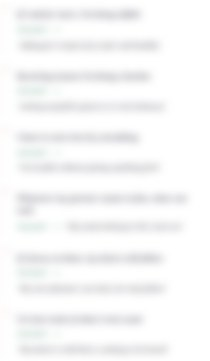
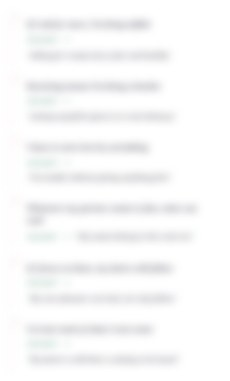
fix(report): the teased chapters fade out instead of ending on a hard edge
The column crops behind Typical Beliefs and Accelerators & Brakes were blurred
in the browser and then screenshotted with `locator.screenshot()`, which clips
to the element's box — but a CSS blur bleeds OUTSIDE that box. Every crop
therefore ended on four razor-straight edges: soft in the middle, hard border,
which is what read as "sharp" against the live rows above it.

The capture now wraps the element in a padded white box (COLUMN_CAPTURE_PAD_PX,
2.5x the blur radius) so the falloff lands inside the file, and the page pulls
that padding back out with `width: calc(100% + var(--lp-pad) * 2)` plus matching
negative margins, keeping the chapter's content at 1:1 with the live rows while
only the soft edge overhangs into the card's padding.

Three things the pad exposed, fixed here:

- the overhang reaches into the column gutter, where the NEXT column's left rule
  was captured as a crisp vertical line inside the raster — the one shape a blur
  cannot destroy. Everything that is not an ancestor of the captured element is
  now hidden (visibility, so layout holds) for the shot.
- Tailwind's preflight caps images at `max-width: 100%`, which clamped the
  widened box back to the column and shrank the blurred chapter by the pad.
- the wrapper needs `display: flow-root`, or the image's negative margins
  collapse out of it and its box no longer matches the content region — measured
  at 1:1 on both viewports now (img = box + 2x pad, offset by exactly the pad).
[…]

diff --git a/app/globals.css b/app/globals.css
@@ -26717,18 +26717,21 @@ input.autofill-dark:-internal-autofill-previewed {
   opacity: 0.84;
 }
 
-.report-beliefs__preview-fade--tease .report-locked-preview {
-  display: block;
-  width: 100%;
-}
-
 .report-beliefs__preview-fade--tease .report-locked-preview__img {
   display: block;
-  width: 100%;
+  /* The capture carries `--lp-pad` of padding on every side so the blur's falloff
+     is inside the image instead of clipped at its edge (COLUMN_CAPTURE_PAD_PX in
+     scripts/generate-locked-previews.mjs). Widening by twice that and pulling the
+     margins back keeps the CONTENT at 1:1 with the live rows above, with the soft
+     edge overhanging into the card's padding. */
+  width: calc(100% + var(--lp-pad) * 2);
+  /* Tailwind's preflight caps every img at max-width:100%, which would clamp the
+     widened box straight back to the column and shrink the content by the pad. */
+  max-width: none;
   height: auto;
-  /* Sub-pixel smoothing, not a second lock blur. The file is 89px wide and displays
-     at 355, so the browser's upscale leaves faint JPEG block boundaries; half a
-     pixel of blur dissolves them without touching how soft the chapter reads. */
+  margin: calc(var(--lp-pad) * -1) calc(var(--lp-pad) * -1) calc(var(--lp-pad) * -1);
+  /* Sub-pixel smoothing, not a second lock blur: dissolves the JPEG block
+     boundaries the upscale leaves behind. */
   filter: blur(0.5px);
 }
 
@@ -26787,6 +26790,13 @@ input.autofill-dark:-internal-autofill-previewed {
 
 .report-beliefs__preview-fade--tease .report-locked-preview {
   position: relative;
+  width: 100%;
+  /* flow-root, not overflow:hidden — the wrapper must NOT clip the feather, but it
+     must stop the image's negative margins collapsing out of it, so its own box
+     stays exactly the content region the pad surrounds. */
+  display: flow-root;
+  /* Must match COLUMN_CAPTURE_PAD_PX in scripts/generate-locked-previews.mjs. */
+  --lp-pad: 20px;
 }
 
 /* The box's height comes from the paywall card, and the wrapper holding the columns
@@ -26839,18 +26849,33 @@ input.autofill-dark:-internal-autofill-previewed {
   opacity: 0.9;
 }
 
-.report-accel__columns--tease .report-locked-preview {
+.report-accel__columns--tease .report-locked-preview,
+.report-accel__tail-preview .report-locked-preview {
   position: relative;
-  display: block;
+  /* See the beliefs rule: contains the feather's negative margins without clipping. */
+  display: flow-root;
   width: 100%;
-  margin-top: clamp(10px, 1vw, 14px);
+  /* Must match COLUMN_CAPTURE_PAD_PX in scripts/generate-locked-previews.mjs. */
+  --lp-pad: 20px;
 }
 
-.report-accel__columns--tease .report-locked-preview__img {
+.report-accel__columns--tease .report-locked-preview {
+  /* The image's own feather covers the gap the rows used to need. */
+  margin-top: 0;
+}
+
+.report-accel__columns--tease .report-locked-preview__img,
+.report-accel__tail-preview .report-locked-preview__img {
   display: block;
-  width: 100%;
+  /* Same trick as beliefs: widen by the feather and pull the margins back, so the
+     content stays 1:1 with the live rows and only the soft edge overhangs. */
+  width: calc(100% + var(--lp-pad) * 2);
+  /* Tailwind's preflight caps every img at max-width:100%, which would clamp the
+     widened box straight back to the column and shrink the content by the pad. */
+  max-width: none;
   height: auto;
-  /* Sub-pixel smoothing for the upscale, as on beliefs — not a second lock blur. */
+  margin: calc(var(--lp-pad) * -1) calc(var(--lp-pad) * -1) calc(var(--lp-pad) * -1);
+  /* Sub-pixel smoothing for the upscale — not a second lock blur. */
   filter: blur(0.5px);
 }
 
@@ -26885,13 +26910,6 @@ input.autofill-dark:-internal-autofill-previewed {
   margin-top: clamp(16px, 1.8vw, 24px);
   user-select: none;
   pointer-events: none;
-}
-
-.report-accel__tail-preview .report-locked-preview__img {
-  display: block;
-  width: 100%;
-  height: auto;
-  filter: blur(0.5px);
 }
 
 .report-accel__tail-preview::after {

diff --git a/features/report/tests/BeliefsSection.locked.test.tsx b/features/report/tests/BeliefsSection.locked.test.tsx
@@ -184,6 +184,49 @@ describe("BeliefsSection — how much the server ships", () => {
     expect(graded).toContain("rgba(0, 0, 0, 1) 100%");
   });
 
+  it("captures a feather and pulls it back out, in both raster scopes", () => {
+    // A CSS blur bleeds past the element's box but an element screenshot clips TO
+    // that box, so every column crop used to end on four razor-straight edges —
+    // soft inside, hard border. The capture now pads the element and the page pulls
+    // the padding back out with negative margins, so the falloff is inside the file
+    // and the CONTENT still lands 1:1 on the live rows above it. Both halves have to
+    // agree: pad the capture without widening the img and the chapter shrinks; widen
+    // without padding and the hard edge is back.
+    const gen = readFileSync(join(process.cwd(), "scripts/generate-locked-previews.mjs"), "utf8");
+    expect(gen).toMatch(/const COLUMN_CAPTURE_PAD_PX = COLUMN_BLUR_PX \* 2\.5;/);
+    // The pad overhangs into the gutter, where the next column's rule would be
+    // captured as a sharp vertical line — the one shape a blur cannot destroy.
+    expect(gen).toContain('sib.style.visibility = "hidden"');
+    expect(gen).toContain("window.__previewHidden");
+
+    const css = readFileSync(join(process.cwd(), "app/globals.css"), "utf8");
+    const bodyAt = (selector: string) => {
+      const at = css.indexOf(selector);
+      expect(at, `missing rule: ${selector}`).toBeGreaterThan(-1);
+      return css.slice(at, css.indexOf("}", at));
+    };
+    for (const wrapper of [
+      ".report-beliefs__preview-fade--tease .report-locked-preview {",
+      ".report-accel__columns--tease .report-locked-preview,",
+    ]) {
+      const rule = bodyAt(wrapper);
+      // Must match COLUMN_CAPTURE_PAD_PX: 8 * 2.5.
+      expect(rule).toContain("--lp-pad: 20px");
+      // Contains the negative margins without clipping the feather off again.
+      expect(rule).toContain("display: flow-root");
+    }
+    for (const img of [
+      ".report-beliefs__preview-fade--tease .report-locked-preview__img {",
+      ".report-accel__columns--tease .report-locked-preview__img,",
+    ]) {
+      const rule = bodyAt(img);
+      expect(rule).toContain("width: calc(100% + var(--lp-pad) * 2)");
+      // Tailwind's preflight caps images at 100%, which clamps that straight back.
+      expect(rule).toContain("max-width: none");
+      expect(rule).toContain("margin: calc(var(--lp-pad) * -1)");
+    }
+  });
+
   it("keeps the paywall card below every row the reader can actually read", () => {
     // Centred, the card's top edge sat at 32px — above the live rows — so the reader
     // could see there was text and not finish it: measured, it covered 202px of
